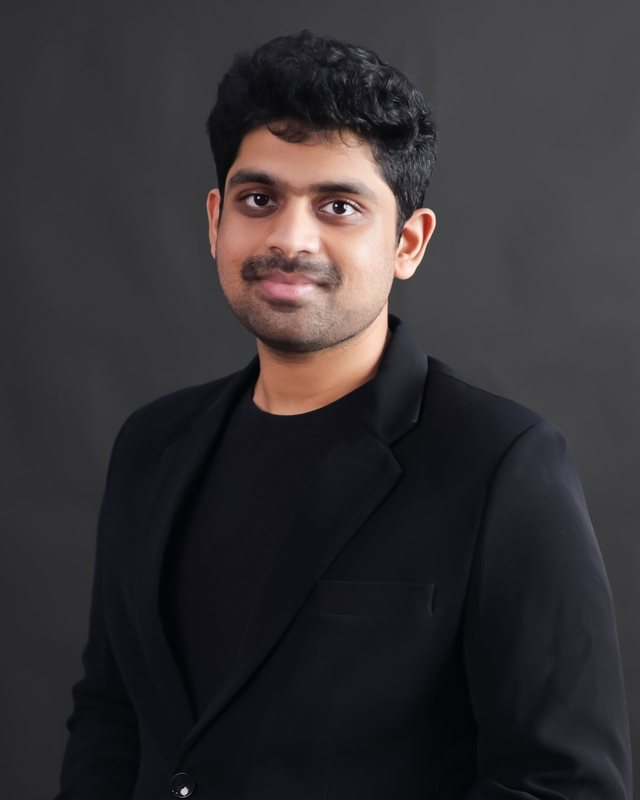
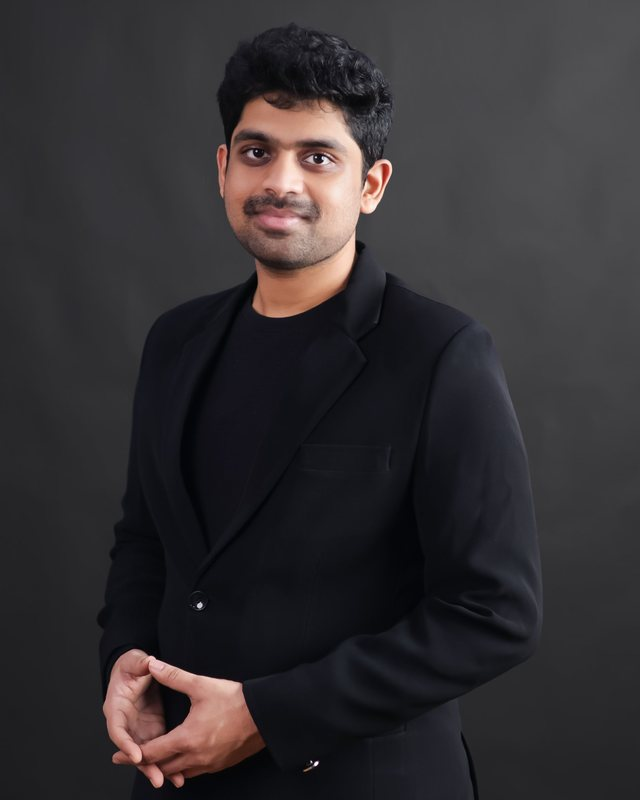
Update founder photo and leadership and technical details

diff --git a/index.html b/index.html
@@ -59,6 +59,13 @@ section h2.t{font-size:clamp(1.9rem,3.6vw,2.7rem);color:var(--green);margin-bott
 .fcard h3{font-size:1.5rem;color:var(--white)}
 .fcard small{display:block;color:var(--gold2);font-weight:500;margin:.2rem 0 1rem}
 .fcard p{margin:0 0 .8rem;font-size:.98rem;line-height:1.6;max-width:none}
+.fd{display:grid;grid-template-columns:1fr 1fr;gap:1.5rem;margin-top:3.5rem}
+.box{background:var(--mist);border-top:4px solid var(--gold);padding:1.8rem;border-radius:4px}
+.box h3{font-size:1.4rem;color:var(--green);margin-bottom:1rem}
+.box ul{list-style:none;margin:0;padding:0}
+.box li{position:relative;padding-left:1.5rem;margin-bottom:.75rem;color:var(--text);font-size:1rem;line-height:1.6}
+.box li:before{content:"";position:absolute;left:0;top:.6em;width:8px;height:8px;border-radius:50%;background:var(--gold)}
+.box li b{color:var(--green)}
 .mv{background:var(--black);color:var(--white)}
 .mv h2.t{color:var(--gold2)}
 .mvg{display:grid;grid-template-columns:1fr 1fr;gap:1.5rem}
@@ -136,7 +143,7 @@ select option{background:#161c18;color:#fff}
 .cap{margin:1rem 0 0;color:var(--muted);font-size:.95rem}
 .wa{position:fixed;right:1.1rem;bottom:1.1rem;z-index:6;background:#25a35a;color:#fff;text-decoration:none;font-weight:700;padding:.75rem 1.2rem;border-radius:99px;box-shadow:0 8px 24px rgba(0,0,0,.3);transition:transform .25s}
 .wa:hover{transform:translateY(-3px) scale(1.04)}
-@media(max-width:860px){.c3{grid-template-columns:1fr 1fr}.about,.mvg{grid-template-columns:1fr}.about{gap:2rem}}
+@media(max-width:860px){.c3{grid-template-columns:1fr 1fr}.about,.mvg,.fd{grid-template-columns:1fr}.about{gap:2rem}}
 @media(max-width:560px){.vals{grid-template-columns:1fr}}
 @media(max-width:560px){.c3{grid-template-columns:1fr}}
 @media(max-width:860px){.steps{grid-template-columns:1fr 1fr}.steps:before{display:none}.mol{opacity:.12}}
@@ -243,6 +250,20 @@ select option{background:#161c18;color:#fff}
     <p>Before founding Hanum Trade, he worked in data engineering for a pharmaceutical client, where he saw how seriously the industry treats quality, compliance and documentation.</p>
     <p>He brings that discipline and a systems mindset to every order, from first enquiry to shipment, and deals with buyers personally.</p>
   </aside>
+</div>
+<div class="wrap fd">
+  <div class="box"><h3>Leadership and responsibility</h3><ul>
+    <li><b>Founder and owner.</b> Responsible for every order, from first enquiry to shipment, along with quotations, documentation and buyer relationships.</li>
+    <li><b>Elected student representative.</b> Served as Graduate Student Senator for the Engineering Graduate Student Society at the University of Maryland, speaking for master's students in the A. James Clark School of Engineering.</li>
+    <li><b>Teaching leadership.</b> Graduate Teaching Assistant at the University of Maryland, running lab sessions and guiding students in databases and in digital forensics and incident response.</li>
+    <li><b>Discipline and service.</b> Completed National Cadet Corps (India) training in leadership and teamwork, with 50+ hours of community service.</li>
+  </ul></div>
+  <div class="box"><h3>Technical background</h3><ul>
+    <li><b>Software and cloud engineering.</b> Master's in Software Engineering, with coursework in cloud security, secure coding and information assurance.</li>
+    <li><b>Data engineering for pharma.</b> Built and ran data pipelines and cloud data migrations for a pharmaceutical client, with attention to data security and compliance standards such as HIPAA and GDPR.</li>
+    <li><b>Data science.</b> Graduate certificate in Data Science, with hands-on work in Python, SQL and machine learning.</li>
+    <li><b>Systems thinking in trade.</b> Applies the same careful, process-driven approach to specifications, documentation and order tracking, and built this website and enquiry process himself.</li>
+  </ul></div>
 </div></section>
 
 <section id="mission" class="mv"><div class="wrap">
@@ -288,7 +309,7 @@ document.getElementById("f").addEventListener("submit",function(e){
 
 var rm=matchMedia("(prefers-reduced-motion:reduce)").matches;
 var io=new IntersectionObserver(function(es){es.forEach(function(e){if(e.isIntersecting){e.target.classList.add("in");io.unobserve(e.target)}})},{threshold:.15});
-document.querySelectorAll(".card,.step,.routes,.cap,.val,.fcard,.panel").forEach(function(el,i){el.classList.add("rv");el.style.transitionDelay=(i%4)*90+"ms";io.observe(el)});
+document.querySelectorAll(".card,.step,.routes,.cap,.val,.fcard,.panel,.box").forEach(function(el,i){el.classList.add("rv");el.style.transitionDelay=(i%4)*90+"ms";io.observe(el)});
 var meter=document.getElementById("meter"),pct=document.getElementById("pct");
 setTimeout(function(){meter.classList.add("go");if(rm){pct.textContent="95%";return}var t0=null;(function f(t){t0=t0||t;var k=Math.min((t-t0)/1800,1);pct.textContent=Math.round(95*(1-Math.pow(1-k,3)))+"%";if(k<1)requestAnimationFrame(f)})(performance.now())},500);
 var top_=document.querySelector(".top"),pr=document.getElementById("prog");
